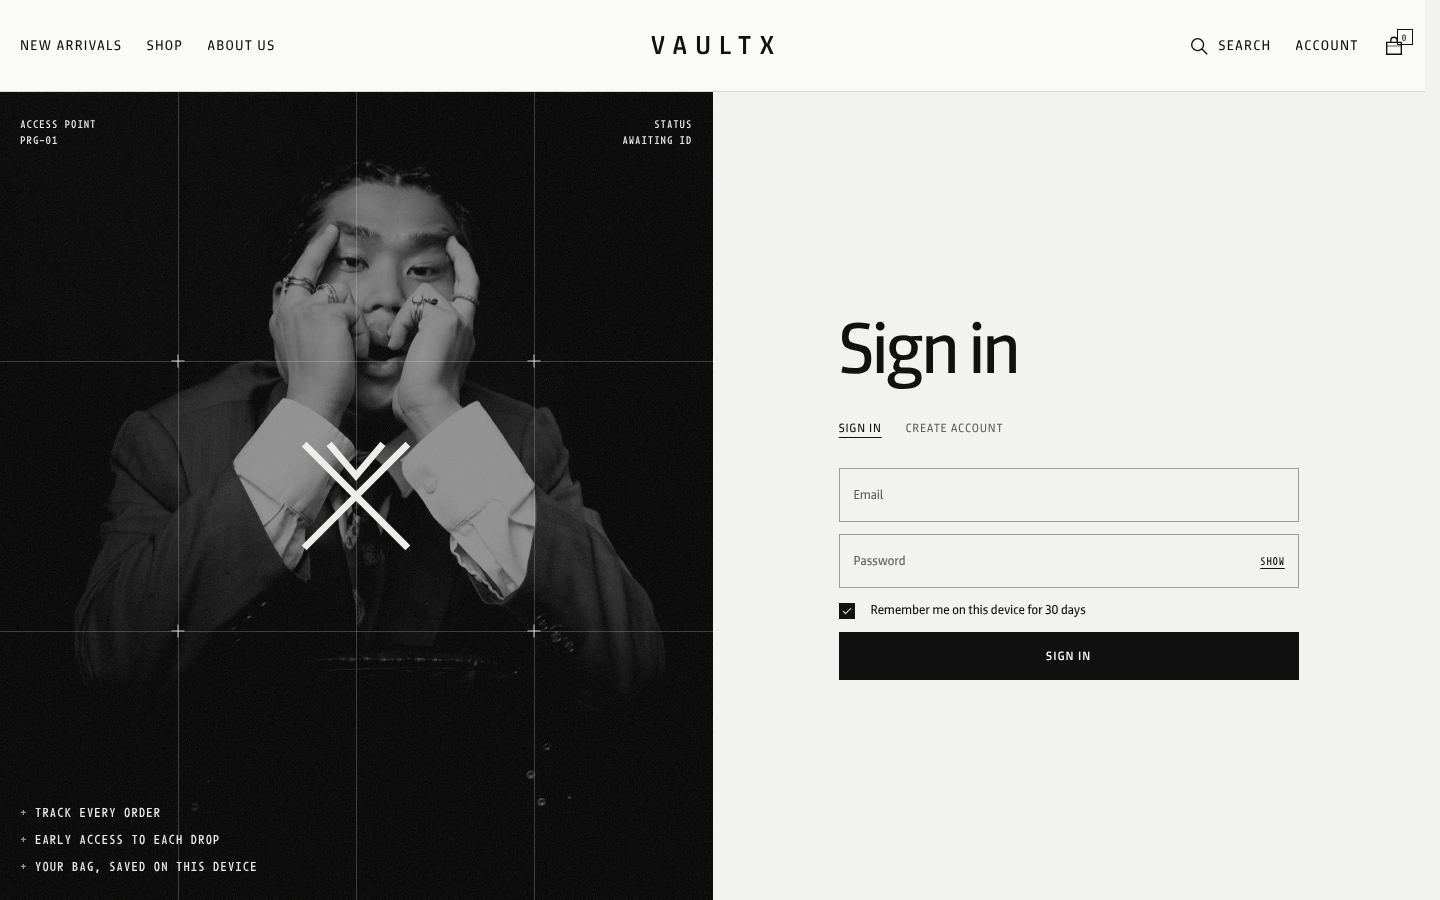
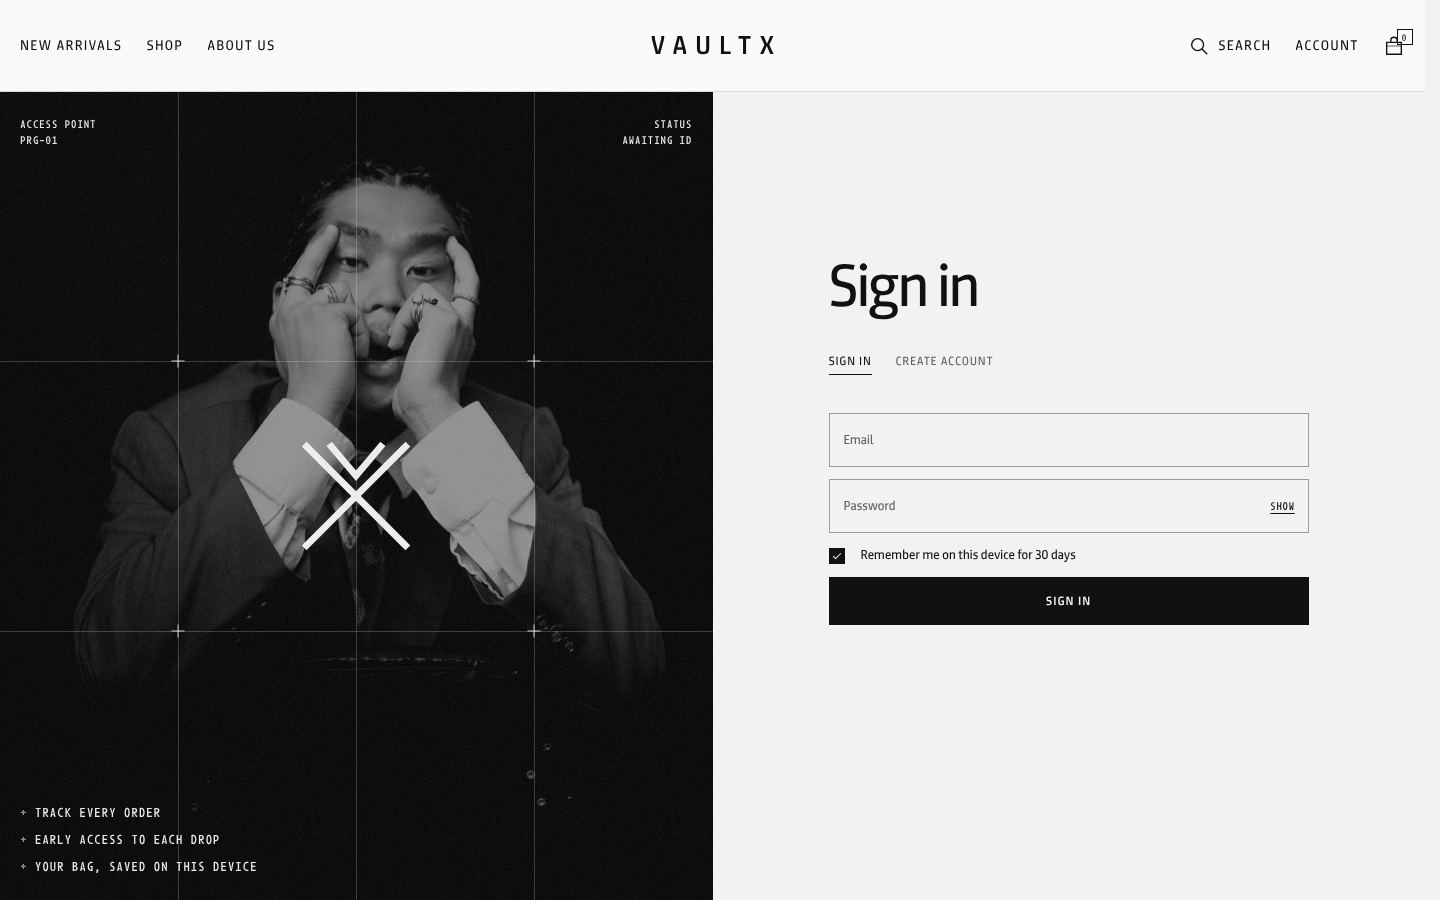
Centre Grid Shell, smooth sign-in / create-account switch
- Grid Shell re-framed without its 1px dark edge skewing the measurement
- Edge crop now measured from where the photo really ends inside the img box,
  so the line is hidden on the product page too (fit.json: clip -> crop)
- Account: titles cross-fade in one fixed cell, the name field slides open,
  form no longer remounts, tab underline slides, content anchored from the top

Claude-Session: https://claude.ai/code/session_01Tmbk2cYMcoTFjuAa7ZBPbH

Changed region(s): [[0.5625, 0.5289, 0.9062, 0.7778], [0.5625, 0.28, 0.7188, 0.4356], [0.5625, 0.4667, 0.6875, 0.4978]]

diff --git a/src/styles.css b/src/styles.css
@@ -608,8 +608,18 @@ legend { padding: 0; }
 .auth__mark { position: absolute; z-index: 2; left: 50%; top: 50%; width: clamp(90px, 10vw, 150px); height: auto; transform: translate(-50%, -50%); }
 .auth__perks { position: absolute; z-index: 2; left: var(--g); bottom: var(--s5); display: grid; gap: var(--s2); font-size: 14px; letter-spacing: 0.08em; }
 .auth__perks li::before { content: '+ '; opacity: 0.6; }
-.auth { width: min(460px, calc(100% - 2 * var(--g))); display: grid; gap: var(--s4); margin: 0 auto; align-self: center; padding: var(--s8) 0; }
-.auth__title { font-size: clamp(40px, 5vw, 72px); font-weight: 400; letter-spacing: -0.02em; line-height: 1; margin-bottom: var(--s3); }
+.auth { width: min(480px, calc(100% - 2 * var(--g))); display: grid; align-content: start; gap: var(--s4); margin: 0 auto; padding: clamp(64px, 18vh, 200px) 0 var(--s8); }
+.auth__title { display: grid; font-size: clamp(36px, 4.2vw, 60px); font-weight: 400; letter-spacing: -0.02em; line-height: 1.05; margin-bottom: var(--s3); white-space: nowrap; }
+.auth__word { grid-area: 1 / 1; opacity: 0; transform: translateY(0.35em); clip-path: inset(0 0 100% 0); filter: blur(6px);
+  transition: opacity 260ms, transform 520ms var(--ease-out), clip-path 520ms var(--ease-out), filter 420ms; }
+.auth__word.is-on { opacity: 1; transform: none; clip-path: inset(0 0 -10% 0); filter: none; transition-delay: 120ms; }
+.auth__word:not(.is-on) { transform: translateY(-0.25em); }
+.auth__name { display: grid; grid-template-rows: 0fr; opacity: 0; margin-bottom: calc(-1 * var(--s3)); transition: grid-template-rows 480ms var(--ease-out), opacity 300ms, margin-bottom 480ms var(--ease-out); }
+.auth__name > div { min-height: 0; overflow: hidden; }
+.auth__form--up .auth__name { grid-template-rows: 1fr; opacity: 1; margin-bottom: 0; transition-delay: 0s, 120ms, 0s; }
+.auth .tab { position: relative; text-decoration: none; transition: color 240ms; }
+.auth .tab::after { content: ''; position: absolute; left: 0; right: 0; bottom: 2px; height: 1px; background: currentColor; transform: scaleX(0); transform-origin: right; transition: transform 380ms var(--ease-out); }
+.auth .tab.is-on::after { transform: scaleX(1); transform-origin: left; }
 @media (max-width: 899px) {
   .account--auth { grid-template-columns: 1fr; min-height: 0; }
   .auth__side { min-height: 360px; }
@@ -810,3 +820,4 @@ legend { padding: 0; }
 .fold__inner > * + * { margin-top: var(--s2); }
 .fold.is-open .fold__inner { opacity: 1; transform: none; transition-delay: 80ms; }
 .nsearch__field input::-webkit-search-cancel-button, .nsearch__field input::-webkit-search-decoration { -webkit-appearance: none; appearance: none; }
+.auth .tab.is-on { text-decoration: none; }

diff --git a/src/pages/Account.tsx b/src/pages/Account.tsx
@@ -167,14 +167,22 @@ function AuthForms() {
         </ul>
       </aside>
       <div className="auth stagger">
-        <h1 className="auth__title">{mode === 'in' ? 'Sign in' : 'Create account'}</h1>
+        <h1 className="auth__title" aria-live="polite">
+          {/* both titles share one cell; the box keeps its height and the words cross-fade */}
+          <span className={`auth__word${mode === 'in' ? ' is-on' : ''}`} aria-hidden={mode !== 'in'}>Sign in</span>
+          <span className={`auth__word${mode === 'up' ? ' is-on' : ''}`} aria-hidden={mode !== 'up'}>Create account</span>
+        </h1>
         <div className="auth__tabs" role="tablist" aria-label="Account">
           <button role="tab" aria-selected={mode === 'in'} className={`tab${mode === 'in' ? ' is-on' : ''}`} onClick={tab('in')}>Sign in</button>
           <button role="tab" aria-selected={mode === 'up'} className={`tab${mode === 'up' ? ' is-on' : ''}`} onClick={tab('up')}>Create account</button>
         </div>
         {ended && mode === 'in' && <p className="note" role="status">You were signed out. Sign in again; your bag is still here.</p>}
-        <form key={mode} onSubmit={submit} noValidate className="auth__form">
-          {mode === 'up' && <Field id="auth-name" label="Full name" autoComplete="name" required maxLength={80} value={name} onChange={(x) => setName(v.clean(x, 80))} onBlur={() => setTouched((t) => ({ ...t, name: true }))} error={err('name')} />}
+        <form onSubmit={submit} noValidate className={`auth__form auth__form--${mode}`}>
+          <div className="auth__name" inert={mode !== 'up'}>
+            <div>
+              <Field id="auth-name" label="Full name" autoComplete="name" required={mode === 'up'} maxLength={80} value={name} onChange={(x) => setName(v.clean(x, 80))} onBlur={() => setTouched((t) => ({ ...t, name: true }))} error={mode === 'up' ? err('name') : undefined} />
+            </div>
+          </div>
           <Field id="auth-mail" label="Email" type="email" inputMode="email" autoComplete="email" required maxLength={254} value={mail} onChange={(x) => setMail(v.clean(x, 254))} onBlur={() => setTouched((t) => ({ ...t, mail: true }))} error={err('mail')} />
           <Field
             id="auth-pass"

diff --git a/src/components/Img.tsx b/src/components/Img.tsx
@@ -3,7 +3,7 @@ import images from '../data/images.json';
 import { assetUrl } from '../lib/format';
 import fit from '../data/fit.json';
 
-const FIT = fit as Record<string, { s: number; x: number; y: number; b: number; clip?: string }>;
+const FIT = fit as Record<string, { s: number; x: number; y: number; b: number; crop?: number }>;
 
 type Entry = { w: number; h: number; sizes: number[] };
 const MANIFEST = images as Record<string, Entry>;
@@ -56,8 +56,27 @@ export function ProductImg({ src, alt, priority, className = '' }: { src: string
   useEffect(() => {
     if (ref.current?.complete && ref.current.naturalWidth) setLoaded(true);
   }, [src]);
-  const f = FIT[src.split('/736x/')[1] ?? ''];
-  const style = f ? ({ '--fit': `translate(${f.x}%, ${f.y}%) scale(${f.s})`, '--lift': f.b, clipPath: f.clip } as React.CSSProperties) : undefined;
+  const f = FIT[src.split('/736x/')[1] ?? ''] as { s: number; x: number; y: number; b: number; crop?: number } | undefined;
+  // crop: share of the photo's right edge to hide (some photos carry a 1px dark border).
+  // The picture is letterboxed inside the <img> box (object-fit: contain), so the
+  // inset is measured from where the picture actually ends, and updated on resize.
+  const [clip, setClip] = useState<string>();
+  useEffect(() => {
+    const el = ref.current;
+    if (!f?.crop || !el) return;
+    const measure = () => {
+      if (!el.naturalWidth) return;
+      const w = el.clientWidth, h = el.clientHeight;
+      const shown = Math.min(w, (h * el.naturalWidth) / el.naturalHeight);
+      setClip(`inset(0 ${((w - shown) / 2 + shown * f.crop!).toFixed(1)}px 0 0)`);
+    };
+    measure();
+    el.addEventListener('load', measure);
+    const ro = new ResizeObserver(measure);
+    ro.observe(el);
+    return () => { ro.disconnect(); el.removeEventListener('load', measure); };
+  }, [src, f?.crop]);
+  const style = f ? ({ '--fit': `translate(${f.x}%, ${f.y}%) scale(${f.s})`, '--lift': f.b, clipPath: clip } as React.CSSProperties) : undefined;
   return (
     <img
       ref={ref}
